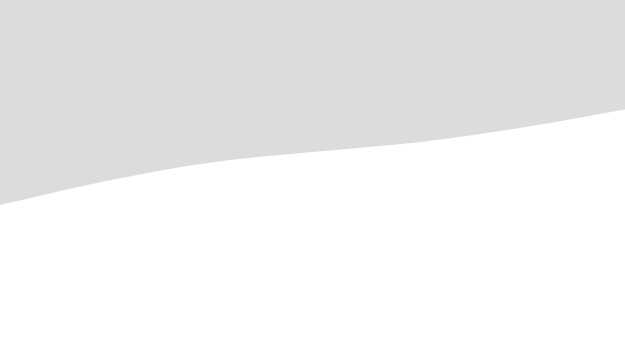
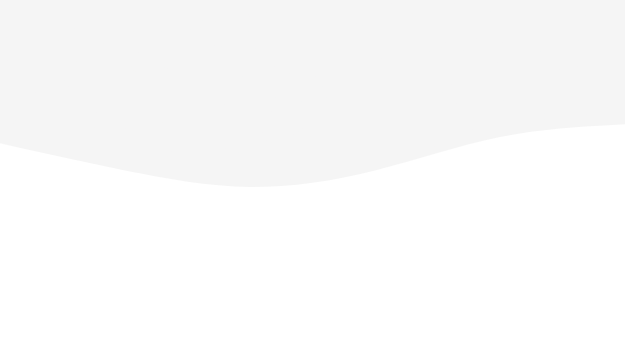
second push

diff --git a/Assets/style/style.css b/Assets/style/style.css
@@ -152,3 +152,69 @@ section.about .text p {
 .bold-text {
   font-weight: 500;
 }
+/* waves divider  */
+section.waves-down {
+  /* border: 1px solid red; */
+  margin-top: 0;
+}
+section.waves-down img {
+  height: 300px;
+  width: 100%;
+  /* border: 1px solid red; */
+}
+/* info section  */
+section.info {
+  padding: var(--section-padding);
+  border: 1px solid red;
+  margin-top: -220px;
+}
+section.info .main-container {
+  display: flex;
+  /* border: 1px solid brown; */
+  flex-direction: column;
+  padding: 0;
+}
+section.info .main-container .upper,
+.lower {
+  width: 100%;
+  display: flex;
+  flex-direction: row;
+}
+section.info .main-container .upper .box-1 {
+  /* background-color: azure; */
+  display: flex;
+  flex-direction: column;
+  justify-content: center;
+  padding: 10px;
+}
+section.info .main-container .upper .box-1 p {
+  font-size: 30px;
+  margin-bottom: 20px;
+}
+section.info .main-container .upper .box-1 .list {
+  border-left: 5px rgb(255, 221, 0) solid;
+  width: max-content;
+}
+section.info .main-container .upper .box-1 .list ul li {
+  font-size: 20px;
+  padding: 2px 5px;
+  letter-spacing: 1px;
+}
+section.info .main-container .upper .box-2 {
+  height: auto;
+  padding: 5px;
+}
+section.info .main-container .upper .box-2 img {
+  width: 100%;
+  box-shadow: 2px 2px 5px #d2b0d3;
+}
+section.info .main-container .upper div,
+.lower div {
+  height: auto;
+  width: 50%;
+  /* border: 1px solid red; */
+}
+section.info .main-container .upper div:nth-child(1),
+.lower div:nth-child(2) {
+  /* background-color: yellow; */
+}

diff --git a/index.html b/index.html
@@ -65,10 +65,32 @@
         </div>
     </section>
     <!-- waves divider -->
-    <!-- <section class="waves waves-down">
+    <section class="waves waves-down">
         <img src="Assets/images/single-wave-down.png" alt="">
-    </section> -->
+    </section>
+    <section class="info">
+        <div class="main-container">
+            <div class="upper">
+                <div class="box-1">
+                    <p>IAC* is an online community for providing 360 degree professional development </p>
 
+                    <div class="list">
+                        <ul>
+                            <li>Career Vision</li>
+                            <li>Career Guidance</li>
+                            <li>Industry &amp; Corporate Exposure</li>
+                            <li>Hands-on experience/ remote internships on live projects</li>
+                        </ul>
+                    </div>
+                </div>
+                <div class="box-2"><img src="Assets/images/community.jpg" alt=""></div>
+            </div>
+            <div class="lower">
+                <div class="box-3"></div>
+                <div class="box-4"></div>
+            </div>
+        </div>
+    </section>
 
 </body>
 
